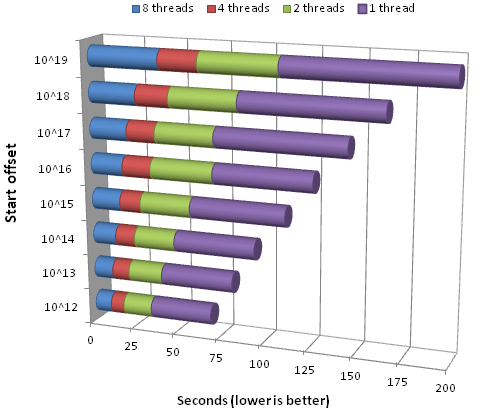
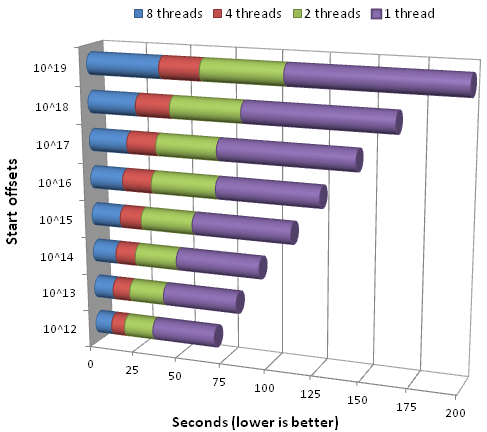
Larger CPU scaling chart

diff --git a/index.html b/index.html
@@ -271,10 +271,10 @@ primesieve used all available CPU cores and the sieve size was set to
 the CPU's L1 data cache size per core (Intel: 32 kilobytes, AMD: 64
 kilobytes).</p>
 
-<h2 style="padding-bottom: 10px">
+<h2 style="padding-bottom: 5px">
 <a name="cpu-scaling" class="anchor" href="#cpu-scaling"><span class="octicon octicon-link"></span></a>CPU scaling</h2>
 <img src="images/primesieve_cpu_scaling.png" alt="primesieve CPU scaling"/>
-<p style="padding-top: 10px">The above CPU scaling benchmark was run
+<p style="padding-top: 13px">The above CPU scaling benchmark was run
 on a system with 8 physical CPU cores and 23 GB of memory. At each
 start offset the primes inside an interval of size 10^11 were counted
 using different numbers of threads. As one can see primesieve scales
